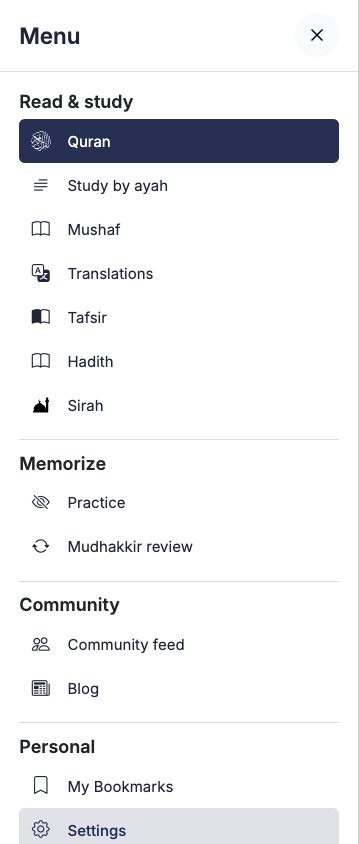
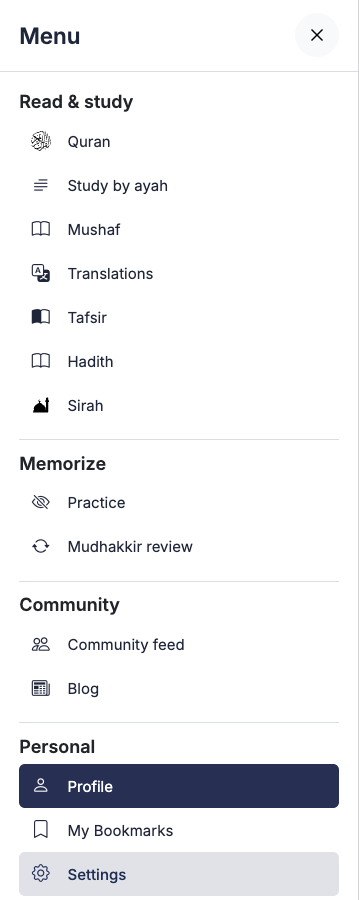
Add signed-in Profile to the Personal drawer section

diff --git a/docs/design-system/library.html b/docs/design-system/library.html
@@ -34,7 +34,7 @@
   </section>
   <section id="navigation"><h2>Navigation &amp; discovery</h2>
     <div class="grid">
-      <article><h3>Site navigation preview</h3><picture><source media="(max-width: 700px)" srcset="shell/header-phone.png"><img src="shell/header.png" alt="Beta masthead with a left menu trigger, brand, navigation, search and account"></picture><p>Show full navigation from 992 px. The global search button uses an inset surface, the label “Search the library”, and a platform-specific keyboard shortcut. Leave .85 rem inside each end of the desktop pill, measured to the magnifier and shortcut respectively. Below 992 px, a magnifier opens the same dialog. Keep menu, search and account reachable at both sizes. Group the drawer into Read &amp; study, Memorize, Community and Personal. Drawer destinations, Settings category links and avatar actions share <code>ux-menu-list</code>. Each row uses regular text, an aligned icon and a 44px minimum target. Hover uses a solid Midnight surface with white text. Keyboard focus adds an inset ring. A current destination uses a quieter tint and medium weight. Dropdown hierarchy (under review): the avatar menu groups identity in an inset header, destinations in one icon column, and Sign out below a divider. Set the identity caption at .82rem Regular, the account name at 1rem Medium and destination rows at .9rem Regular. Mark the current destination with Medium and a tinted surface. Give each row at least 44px of height. On short pages the footer sits at the bottom of the available viewport, above the persistent navigation. On longer pages it follows the content. The footer preview uses a compact Midnight band with a small wordmark and inline links. On phones, each navigation group starts a new row with touch-sized links.</p><p><a href="shell/account.png">View the avatar menu</a> · <a href="shell/menu.png">View the mobile menu</a> · <a href="shell/footer.png">View the desktop footer</a></p></article>
+      <article><h3>Site navigation preview</h3><picture><source media="(max-width: 700px)" srcset="shell/header-phone.png"><img src="shell/header.png" alt="Beta masthead with a left menu trigger, brand, navigation, search and account"></picture><p>Show full navigation from 992 px. The global search button uses an inset surface, the label “Search the library”, and a platform-specific keyboard shortcut. Leave .85 rem inside each end of the desktop pill, measured to the magnifier and shortcut respectively. Below 992 px, a magnifier opens the same dialog. Keep menu, search and account reachable at both sizes. Group the drawer into Read &amp; study, Memorize, Community and Personal. For signed-in readers, Personal starts with the same Profile link and person icon as the avatar menu. Drawer destinations, Settings category links and avatar actions share <code>ux-menu-list</code>. Each row uses regular text, an aligned icon and a 44px minimum target. Hover uses a solid Midnight surface with white text. Keyboard focus adds an inset ring. A current destination uses a quieter tint and medium weight. Dropdown hierarchy (under review): the avatar menu groups identity in an inset header, destinations in one icon column, and Sign out below a divider. Set the identity caption at .82rem Regular, the account name at 1rem Medium and destination rows at .9rem Regular. Mark the current destination with Medium and a tinted surface. Give each row at least 44px of height. On short pages the footer sits at the bottom of the available viewport, above the persistent navigation. On longer pages it follows the content. The footer preview uses a compact Midnight band with a small wordmark and inline links. On phones, each navigation group starts a new row with touch-sized links.</p><p><a href="shell/account.png">View the avatar menu</a> · <a href="shell/menu.png">View the mobile menu</a> · <a href="shell/footer.png">View the desktop footer</a></p></article>
       <article><h3>Category rail &amp; local search</h3><picture><source media="(max-width: 700px)" srcset="settings/rail-mobile.png"><img src="settings/rail.png" alt="Compact Search settings field above the category links"></picture><p>Place the Settings category rail to the right of the panels, with the shared full-width rail search above its links. Books and Settings use the same field, funnel icon, clear button, focus ring and side gutters. Name its scope in the placeholder and accessible label. Below 992px, search moves above the panels and the header subnavigation provides category navigation.</p><p>Match nested controls and asynchronously loaded catalogs. Announce the count or empty state. Clear and Escape restore the previous disclosures and return focus to the field.</p></article>
       <article><h3>Disclosure with current value</h3><img src="settings/disclosures.png" alt="Reading and listening rows with their saved values"><p>Group settings by task. Use a native details/summary row with a short label, current value or count, and a chevron. Place the summary below the label on narrow screens. Opening one row keeps the others available.</p></article>
     </div>

diff --git a/spec/booksRouteCache.spec.js b/spec/booksRouteCache.spec.js
@@ -52,7 +52,7 @@ describe('books catalog performance path', () => {
   test('serves a disk cache hit before Elasticsearch, SQL, or Tafsir lookups', async () => {
     const req = request();
     const res = response();
-    const cachedFile = `${require('os').homedir()}/.hadithdb/cache/hadith${Utils.cacheSuffix()}/books/_books-makeover-v11.html`;
+    const cachedFile = `${require('os').homedir()}/.hadithdb/cache/hadith${Utils.cacheSuffix()}/books/_books-makeover-v12.html`;
     jest.spyOn(Utils, 'shouldFlushCache').mockReturnValue(false);
     jest.spyOn(Utils, 'cachedTextPathForRead').mockReturnValue(`${cachedFile}.gz`);
     jest.spyOn(Utils, 'sendCachedHtml').mockReturnValue(true);
@@ -70,7 +70,7 @@ describe('books catalog performance path', () => {
   test('uses the same versioned cache path for rendering and metadata invalidation', () => {
     const route = fs.readFileSync(path.join(__dirname, '..', 'routes', 'books.js'), 'utf8');
     const updates = fs.readFileSync(path.join(__dirname, '..', 'routes', 'update.js'), 'utf8');
-    expect(route).toContain("Utils.cacheFileFromFilename('_books-makeover-v11', 'html', 'books', 'hadith')");
+    expect(route).toContain("Utils.cacheFileFromFilename('_books-makeover-v12', 'html', 'books', 'hadith')");
     expect(updates).toContain("Utils.flushCachedFile(Utils.cacheFileFromFilename('_books', 'html', 'books', 'hadith'))");
   });
 

diff --git a/routes/update.js b/routes/update.js
@@ -1349,7 +1349,7 @@ async function flushBookCaches(bookAliases) {
   for (const bookAlias of aliases)
     await Utils.flushCacheContaining(bookAlias);
   await Utils.flushCachedFile(Utils.cacheFileFromFilename('_books', 'html', 'books', 'hadith'));
-  await Utils.flushCachedFile(Utils.cacheFileFromFilename('_books-makeover-v11', 'html', 'books', 'hadith'));
+  await Utils.flushCachedFile(Utils.cacheFileFromFilename('_books-makeover-v12', 'html', 'books', 'hadith'));
   await Utils.flushCachedFile(Utils.cacheFileFromFilename('_books'));
   await Utils.flushCachedFile(`${cacheDir}/_books.html`);
   if (!fs.existsSync(cacheDir))
@@ -1383,7 +1383,7 @@ async function flushQuranCatalogBookCaches(bookAliases) {
   await Utils.flushCacheContaining('tafsirs');
   await Utils.flushCacheContaining('tafsir:books');
   await Utils.flushCachedFile(Utils.cacheFileFromFilename('_books', 'html', 'books', 'hadith'));
-  await Utils.flushCachedFile(Utils.cacheFileFromFilename('_books-makeover-v11', 'html', 'books', 'hadith'));
+  await Utils.flushCachedFile(Utils.cacheFileFromFilename('_books-makeover-v12', 'html', 'books', 'hadith'));
   await Utils.flushCachedFile(Utils.cacheFileFromFilename('_books'));
   await Utils.flushCachedFile(`${cacheDir}/_books.html`);
   await Utils.flushCachedFile(`${cacheDir}/_books`);

diff --git a/routes/books.js b/routes/books.js
@@ -70,7 +70,7 @@ async function renderCatalog(req, res) {
   res.locals.res = res;
   const editMode = req.admin && req.editMode;
   const cacheableHtml = !('json' in req.query) && !('tsv' in req.query) && !['tab', 'hadith', 'translation', 'tafsir', 'sharh', 'history', 'mushaf'].some(key => key in req.query);
-  const cachedFile = Utils.cacheFileFromFilename('_books-makeover-v11', 'html', 'books', 'hadith');
+  const cachedFile = Utils.cacheFileFromFilename('_books-makeover-v12', 'html', 'books', 'hadith');
   const flushCache = Utils.shouldFlushCache(req);
   if (flushCache) {
     await Utils.flushCachedFile(cachedFile, { strict: true });
